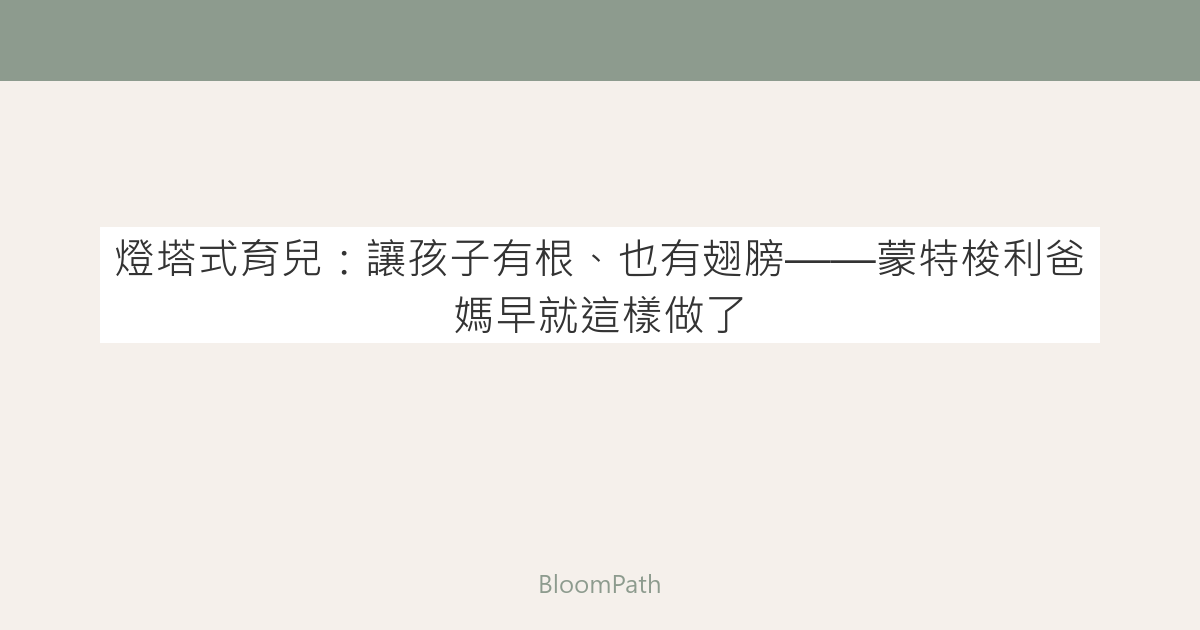
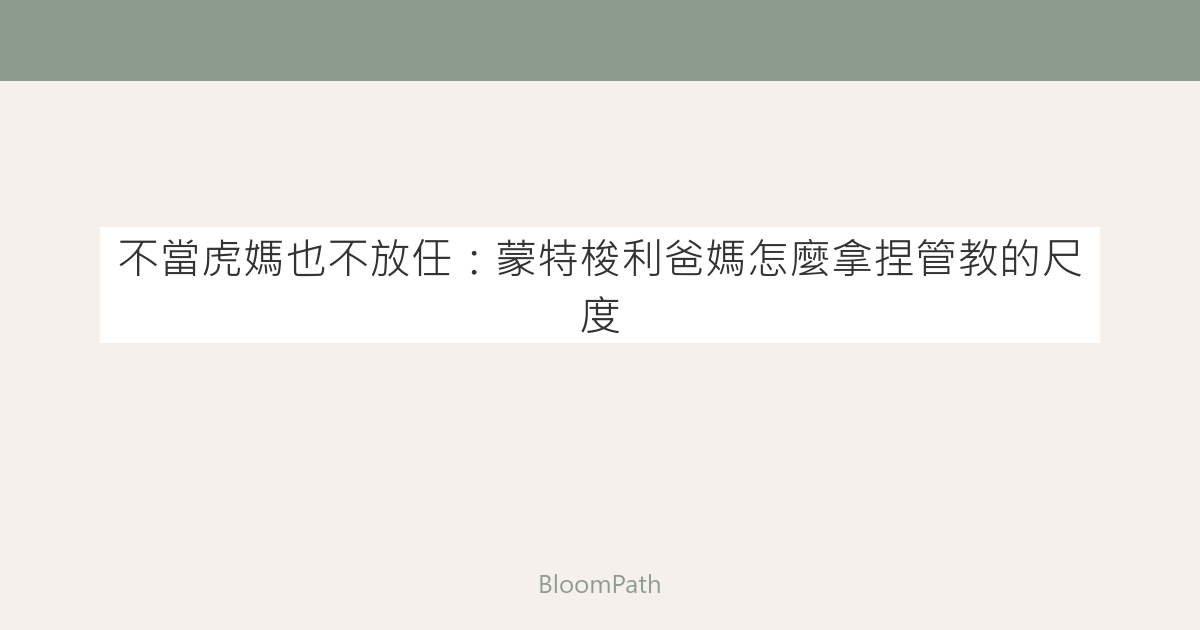
Update 5 article titles to parent-friendly search language
Replace academic/clickbait titles with natural parent search queries
across 3 EN and 2 ZH Montessori/parenting articles. Regenerate
matching OG images with updated text.

Changed region(s): [[0.0925, 0.3619, 0.925, 0.5429]]

diff --git a/src/content/blog/montessori-national-study-2026-results-zh.md b/src/content/blog/montessori-national-study-2026-results-zh.md
@@ -1,5 +1,5 @@
 ---
-title: "蒙特梭利幼兒園更便宜還更有效？2026 美國全國研究結果公布"
+title: "蒙特梭利小孩真的比較聰明嗎？2026 最新研究這樣說"
 description: "美國首次全國性隨機對照試驗結果出爐：公立蒙特梭利幼兒園的孩子在閱讀、執行功能、記憶力和社會理解力都贏過同齡，而且三年下來每個孩子還省了台幣 40 萬。研究怎麼說？爸媽可以怎麼用？"
 pubDate: "2026-04-16"
 tags: ["蒙特梭利", "幼兒園", "兒童發展", "教育研究", "學前教育"]

diff --git a/src/content/blog/lighthouse-parenting-montessori-zh.md b/src/content/blog/lighthouse-parenting-montessori-zh.md
@@ -1,5 +1,5 @@
 ---
-title: "燈塔式育兒：讓孩子有根、也有翅膀——蒙特梭利爸媽早就這樣做了"
+title: "不當虎媽也不放任：蒙特梭利爸媽怎麼拿捏管教的尺度"
 description: "燈塔式育兒（Lighthouse Parenting）是什麼？Dr. Kenneth Ginsburg 的 7 個 C 如何幫台灣父母培養有韌性的孩子？一個工程師爸爸從直升機父母到燈塔父母的真實轉變。"
 pubDate: "2026-04-17"
 tags: ["燈塔式育兒", "燈塔父母", "孩子韌性培養", "蒙特梭利育兒", "正向教養", "台灣育兒"]

diff --git a/src/content/blog/cycle-breaking-parenting-generational-trauma-en.md b/src/content/blog/cycle-breaking-parenting-generational-trauma-en.md
@@ -1,5 +1,5 @@
 ---
-title: "Cycle-Breaking Parenting: The Gen Z Guide to Healing Generational Trauma"
+title: "I Don't Want to Parent Like My Parents Did: A Practical Guide to Breaking the Cycle"
 description: "37% of parents are now focused on breaking generational cycles. Here's what that actually looks like on a Tuesday when you've already yelled twice before breakfast."
 pubDate: "2026-04-07"
 tags: ["cycle breaking parenting", "generational trauma", "positive parenting", "emotional regulation", "montessori", "conscious parenting"]

diff --git a/src/content/blog/en-montessori-pnas-research-2026.md b/src/content/blog/en-montessori-pnas-research-2026.md
@@ -1,5 +1,5 @@
 ---
-title: "Does Montessori Actually Work? A Landmark Study Just Settled the Debate."
+title: "Are Montessori Kids Really Smarter? The 2026 Study Every Parent Should Read"
 description: "The first national randomized controlled trial of public Montessori preschool found stronger reading, executive function, and social skills — at $13,127 less per child. Here's what every parent needs to know."
 pubDate: 2026-04-03
 lastUpdated: 2026-04-03

diff --git a/src/content/blog/montessori-sel-casel-skills-en.md b/src/content/blog/montessori-sel-casel-skills-en.md
@@ -1,5 +1,5 @@
 ---
-title: "Montessori Was Doing SEL Before It Had a Name: How the Method Builds All 5 CASEL Skills"
+title: "Why Montessori Kids Handle Emotions Better: The Social Skills Advantage Explained"
 description: "Your child's school is suddenly talking about SEL. Here's what it actually means — and why Montessori classrooms have been doing it for 100 years without the acronym."
 pubDate: "2026-04-18"
 lastUpdated: "2026-04-18"
